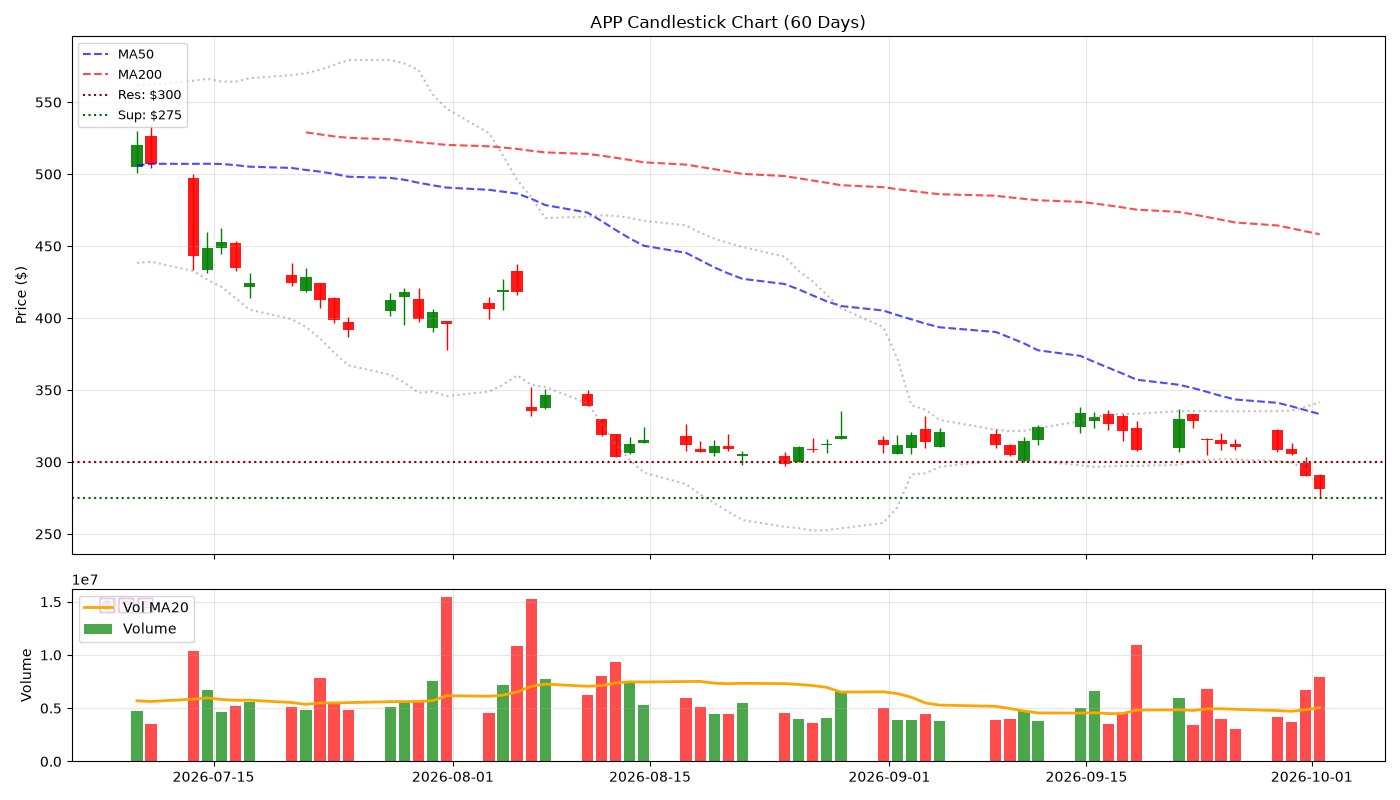
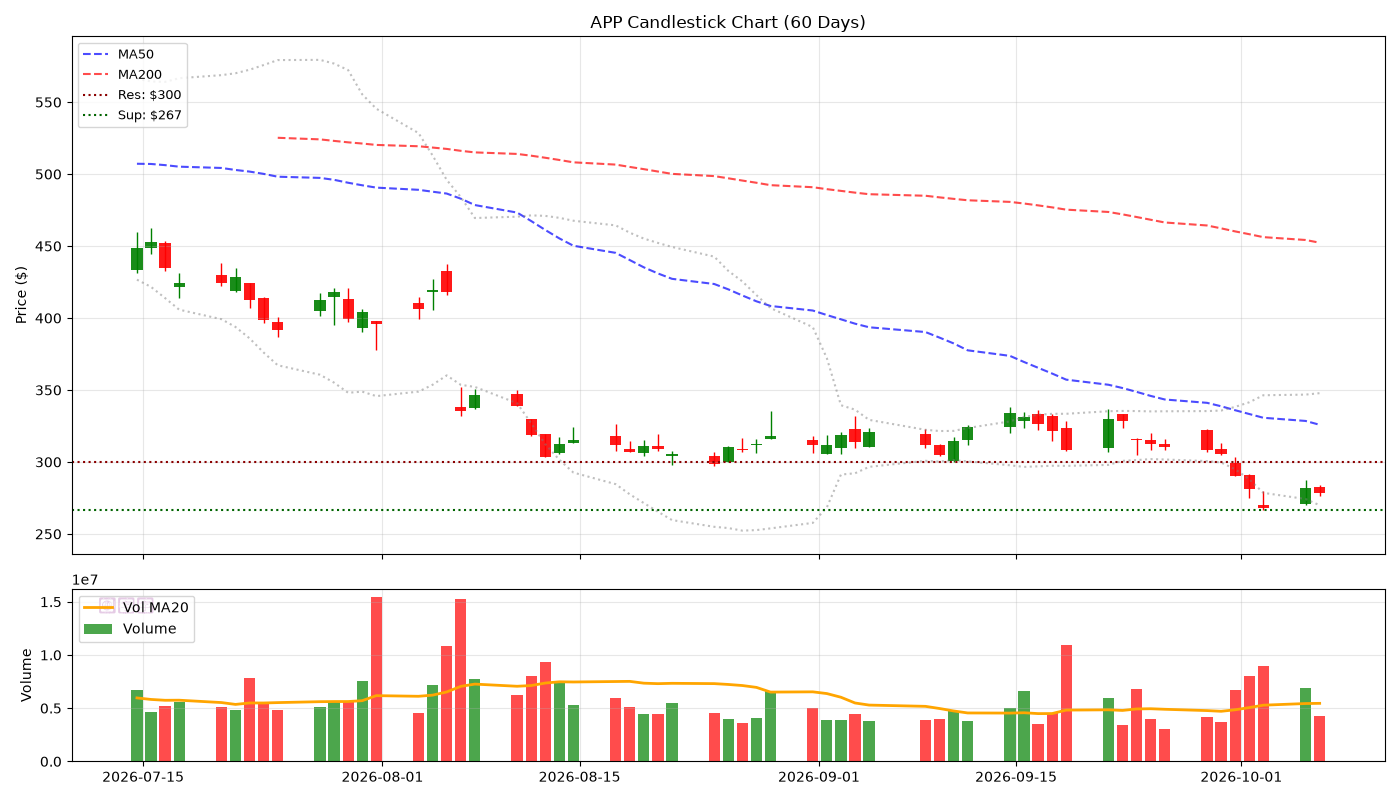
feat(v5): 2026-10-07 Candlestick

diff --git a/reports/2026-10-07.md b/reports/2026-10-07.md
@@ -1,0 +1,85 @@
+# 🕯 Hermes V5 陰陽燭專業日報 - 2026-10-07
+> **生成時間**: 2026-10-07 06:00:42 | **圖表**: 正宗陰陽燭 + Volume
+
+---
+
+## 📊 核心數據
+
+| 股票 | 價格 | 漲跌% | RSI | 成交量 | 阻力 | 支撐 |
+|------|------|-------|-----|--------|------|------|
+| SNDK | $1660.46 | -2.56% | 58.3 | 💧 | $1700 | $1650 |
+| MU | $1045.56 | -1.73% | 68.2 | 💧 | $1050 | $1000 |
+| SOXL | $164.26 | -0.01% | 83.5 | 💧 | $170 | $150 |
+| TSLA | $380.68 | +0.51% | 63.7 | 💧 | $387 | $346 |
+| APP | $278.78 | -1.13% | 30.0 | 💧 | $300 | $267 |
+| NOW | $137.97 | +1.39% | 47.5 | 💧 | $148 | $127 |
+| CAT | $863.44 | +1.80% | 77.6 | 💧 | $877 | $850 |
+| AMAT | $530.27 | -2.21% | 90.9 | 💧 | $547 | $500 |
+| NOK | $10.97 | +7.55% | 61.2 | 💧 | $11 | $10 |
+| ALAB | $389.80 | +7.58% | 85.7 | 🔥 | $400 | $252 |
+
+---
+
+## 📈 個股陰陽燭分析
+
+### SNDK ($1660.46, -2.56%)
+![Candlestick](../charts/SNDK.png)
+
+- **RSI**: 58.3 | **Vol**: NORMAL
+- **關鍵位**: 阻力 $1700.00 | 支撐 $1650.00
+
+### MU ($1045.56, -1.73%)
+![Candlestick](../charts/MU.png)
+
+- **RSI**: 68.2 | **Vol**: NORMAL
+- **關鍵位**: 阻力 $1050.00 | 支撐 $1000.00
+
+### SOXL ($164.26, -0.01%)
+![Candlestick](../charts/SOXL.png)
+
+- **RSI**: 83.5 | **Vol**: NORMAL
+- **關鍵位**: 阻力 $169.83 | 支撐 $150.00
+
+### TSLA ($380.68, +0.51%)
+![Candlestick](../charts/TSLA.png)
+
+- **RSI**: 63.7 | **Vol**: NORMAL
+- **關鍵位**: 阻力 $386.83 | 支撐 $345.88
+
+### APP ($278.78, -1.13%)
+![Candlestick](../charts/APP.png)
+
+- **RSI**: 30.0 | **Vol**: NORMAL
+- **關鍵位**: 阻力 $300.00 | 支撐 $266.84
+
+### NOW ($137.97, +1.39%)
+![Candlestick](../charts/NOW.png)
+
+- **RSI**: 47.5 | **Vol**: NORMAL
+- **關鍵位**: 阻力 $147.57 | 支撐 $126.75
+
+### CAT ($863.44, +1.80%)
+![Candlestick](../charts/CAT.png)
+
+- **RSI**: 77.6 | **Vol**: NORMAL
+- **關鍵位**: 阻力 $876.95 | 支撐 $850.00
+
+### AMAT ($530.27, -2.21%)
+![Candlestick](../charts/AMAT.png)
+
+- **RSI**: 90.9 | **Vol**: NORMAL
+- **關鍵位**: 阻力 $547.25 | 支撐 $500.00
+
+### NOK ($10.97, +7.55%)
+![Candlestick](../charts/NOK.png)
+
+- **RSI**: 61.2 | **Vol**: NORMAL
+- **關鍵位**: 阻力 $11.17 | 支撐 $9.65
+
+### ALAB ($389.80, +7.58%)
+![Candlestick](../charts/ALAB.png)
+
+- **RSI**: 85.7 | **Vol**: HIGH
+- **關鍵位**: 阻力 $400.00 | 支撐 $251.62
+
+*Generated by Hermes Agent V5 (Candlestick Pro)*

diff --git a/index.md b/index.md
@@ -1,12 +1,12 @@
 # 🌍 Hermes V5 陰陽燭情報中心
-> **更新**: 2026-10-02 06:01:05
+> **更新**: 2026-10-07 06:00:42
 
 | 股票 | 價格 | 漲跌% | RSI | Vol |
 |------|------|-------|-----|-----|
-| SNDK | $1787.69 | +2.75% | 59.3 | 💤 |
-| MU | $1097.39 | +3.03% | 68.4 | 🔥 |
-| SOXL | $153.69 | +3.94% | 65.5 | 💤 |
-| TSLA | $354.11 | -0.20% | 41.4 | 💤 |
-| APP | $281.31 | -3.14% | 30.1 | 🔥 |
+| SNDK | $1660.46 | -2.56% | 58.3 | 💤 |
+| MU | $1045.56 | -1.73% | 68.2 | 💤 |
+| SOXL | $164.26 | -0.01% | 83.5 | 💤 |
+| TSLA | $380.68 | +0.51% | 63.7 | 💤 |
+| APP | $278.78 | -1.13% | 30.0 | 💤 |
 
-📖 [查看完整陰陽燭報告](reports/2026-10-02.md)
+📖 [查看完整陰陽燭報告](reports/2026-10-07.md)
